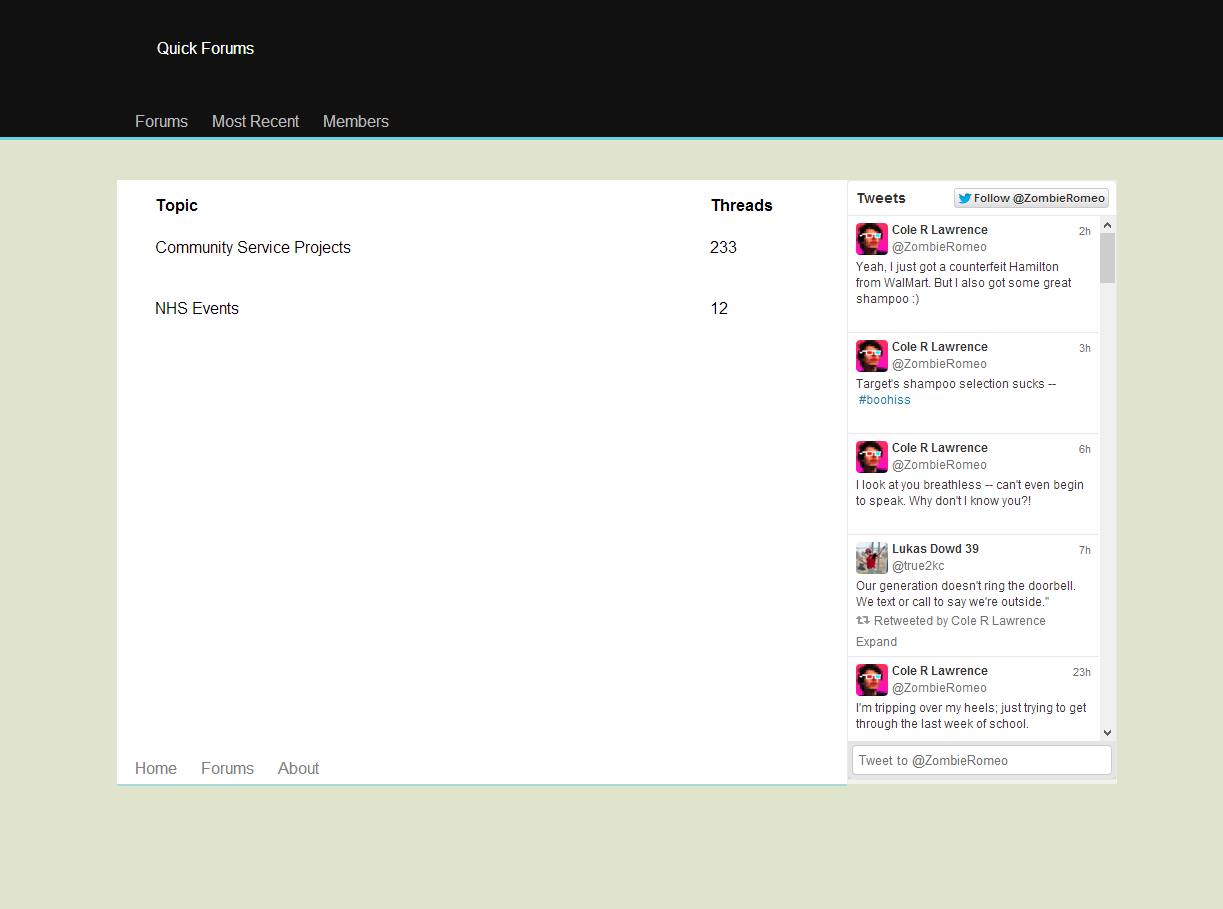
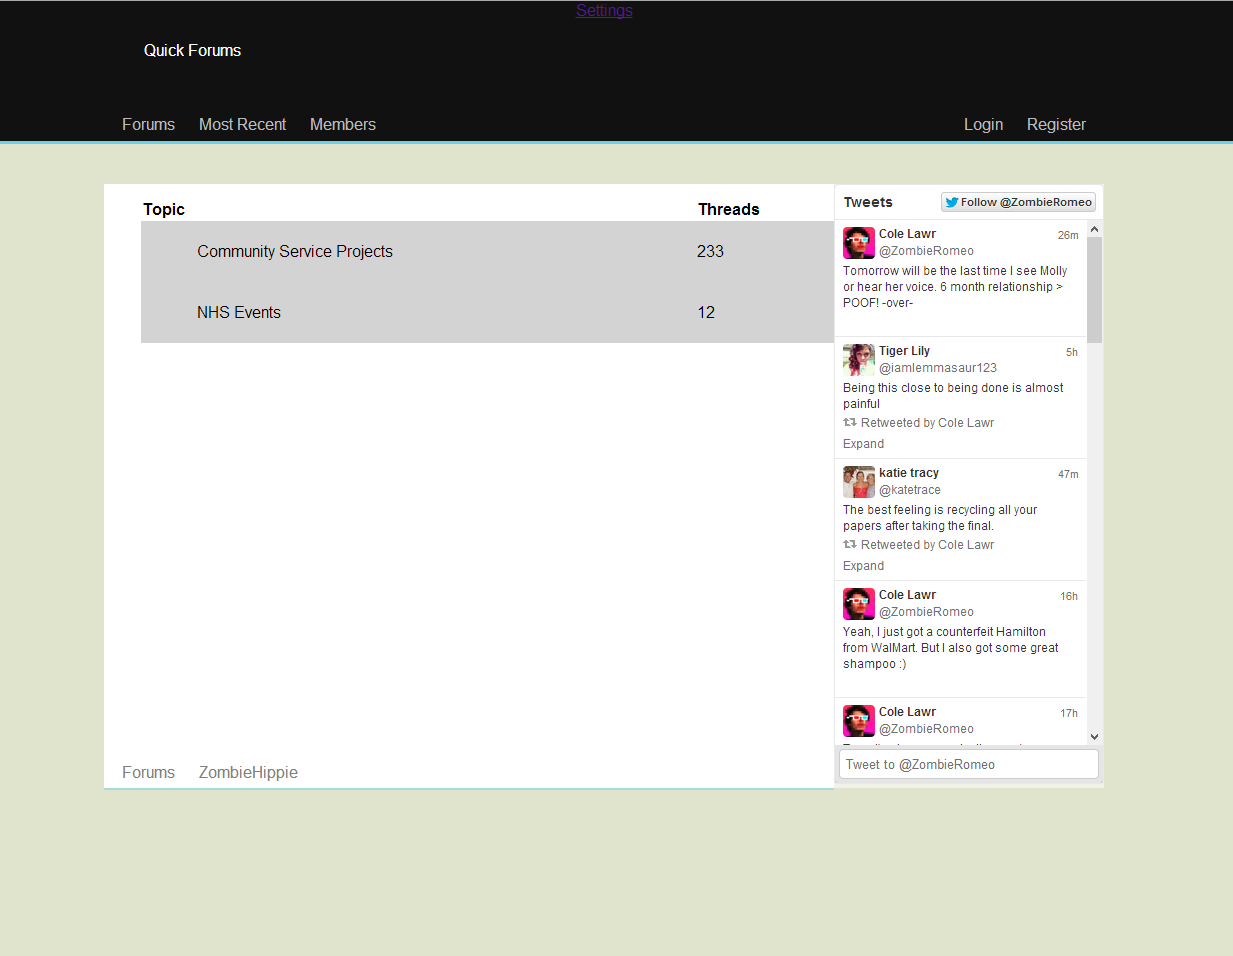
Added more slight design changes. Styling is taking long than expected.

diff --git a/css/hd.css b/css/hd.css
@@ -1,7 +1,15 @@
 html {
     /*background-image: url("/img/bg.png");  */
     background-color: #E0E4CC;
-}.hd ul {
+}.univ{
+position:absolute;
+top:0;
+left:0;
+width:100%;
+height:35px;
+text-align: center;
+}
+.hd ul {
 	list-style: none;
 }.hd li {
 	display: inline-block;
@@ -12,13 +20,23 @@ html {
 }.hd>.bar {
 	width: 1000px;
 	margin: 0 auto;
+}.hd.headerhd>.bar {
+	width: 1000px;
+	margin: 0 auto;
+	height:140px;
 }.hd>.bar>.logo {
+	height: 100px;
+}.hd>.bar>.logo>div {
 	padding: 40px;
 	color: #FFF;
 }.hd>.bar>ul{
 	margin:0;
 	height:35px;
 	padding:4px 8px 0;
+}.hd>.bar>ul.ull{
+	float:left;
+}.hd>.bar>ul.ulr{
+	float:right;
 }.hd>.bar>ul>li>a{
 	display:inline-block;
 	color: #BBB;

diff --git a/css/in.css b/css/in.css
@@ -12,13 +12,17 @@
 }.left>table {
     margin-left: 5%;
     width:95%;
+}.left>table>tbody>tr {
+    background-color: lightgray;
+}.left>table>tbody>tr.th {
+    background-color: white;
 }.left>table>tbody>tr>td{
     color: black;
 }.left>table>tbody>tr>td a {
     text-decoration: none;
     display: inline-block;
-    padding:20px 0;
-    width: 100%;
+    padding:20px 10%;
+    width: 80%;
     color: black;
 }.left>table>tbody>tr>td a:hover {
     text-decoration: underline;

diff --git a/topic.php b/topic.php
@@ -8,6 +8,7 @@ function get_title(){
 <!-- start index-->
 <div class="page">
 	<div class="left">
+		<h2>Topic: </h2>
 		<table>
 			<tbody>
 				<tr class="th">
@@ -15,11 +16,11 @@ function get_title(){
     				<th width="20%" align="left">Threads</th>
   				</tr>
 				<tr>
-				    <td><a href="/topic.php?id=2"><span>Community Service Projects</span></a></td>
+				    <td><a href="?fid=1"><span>Community Service Projects</span></a></td>
 				    <td><span>233</span></td>
 			  	</tr>
 				<tr>
-				    <td><a href="/topic.php?id=1"><span>NHS Events</span></a></td>
+				    <td><a href="?fid=1"><span>NHS Events</span></a></td>
 				    <td><span>12</span></td>
 			  	</tr>
   			</tbody>
@@ -27,7 +28,7 @@ function get_title(){
 	</div>
 	<div class="right">
 		<a class="twitter-timeline" data-dnt="true" href="https://twitter.com/ZombieRomeo" data-widget-id="337061254575300610">Tweets by @ZombieRomeo</a>
-		<script>!function(d,s,id){var js,fjs=d.getElementsByTagName(s)[0],p=/^http:/.test(d.location)?'http':'https';if(!d.getElementById(id)){js=d.createElement(s);js.id=id;js.src=p+"://platform.twitter.com/widgets.js";fjs.parentNode.insertBefore(js,fjs);}}(document,"script","twitter-wjs");</script>
+<script>!function(d,s,id){var js,fjs=d.getElementsByTagName(s)[0],p=/^http:/.test(d.location)?'http':'https';if(!d.getElementById(id)){js=d.createElement(s);js.id=id;js.src=p+"://platform.twitter.com/widgets.js";fjs.parentNode.insertBefore(js,fjs);}}(document,"script","twitter-wjs");</script>
 	</div>
 	<?php include 'php/page_footer.php'; ?>
 </div>

diff --git a/php/header.php b/php/header.php
@@ -11,17 +11,19 @@
     <script src="lib/zepto.min.js"></script>
 </head>
 <body>
-<div class="hd">
-    
+<div class="univ">
+    <a href="/settings.php">Settings</a>
+</div>
+<div class="headerhd hd">
     <div class="nav-bar bar">
         <div class="logo">
-            <span><?php echo get_title();?></span>
+            <div><?php echo get_title();?></div>
         </div>
-        <ul>
+        <ul class="ull">
             <li>
-            	<a href="#forum">
-            		<span>Forums</span>
-            	</a>
+                <a href="/index.php">
+                    <span>Forums</span>
+                </a>
             </li>
             <li>
                 <a href="#recent">
@@ -29,9 +31,21 @@
                 </a>
             </li>
             <li>
-            	<a href="#members">
-            		<span>Members</span>
-            	</a>
+                <a href="#members">
+                    <span>Members</span>
+                </a>
+            </li>
+        </ul>
+        <ul class="ulr">
+            <li>
+                <a href="/index.php">
+                    <span>Login</span>
+                </a>
+            </li>
+            <li>
+                <a href="#recent">
+                    <span>Register</span>
+                </a>
             </li>
         </ul>
     </div>

diff --git a/post.php b/post.php
@@ -1,0 +1,34 @@
+<?php
+function get_title(){
+    return "Quick Forums";
+}
+?>
+
+<?php include 'php/header.php'; ?>
+<!-- start index-->
+<div class="page">
+	<div class="left">
+		<h2>Post: </h2>
+		<table>
+			<tbody>
+				<tr class="th">
+    				<th width="80%" align="left">Topic</th>
+    				<th width="20%" align="left">Threads</th>
+  				</tr>
+				<tr>
+				    <td><a href="?fid=1"><span>Community Service Projects</span></a></td>
+				    <td><span>233</span></td>
+			  	</tr>
+				<tr>
+				    <td><a href="?fid=1"><span>NHS Events</span></a></td>
+				    <td><span>12</span></td>
+			  	</tr>
+  			</tbody>
+		</table>
+	</div>
+	<div class="right">
+	</div>
+	<?php include 'php/page_footer.php'; ?>
+</div>
+<!-- end index  -->
+<?php include 'php/footer.php'; ?>

diff --git a/php/page_footer.php b/php/page_footer.php
@@ -2,18 +2,13 @@
     <div class="bar">
         <ul>
             <li>
-            	<a href="#home">
-            		<span>Home</span>
-            	</a>
-            </li>
-            <li>
-            	<a href="#forum">
+            	<a href="/index.php">
             		<span>Forums</span>
             	</a>
             </li>
             <li>
-            	<a href="#members">
-            		<span>About</span>
+            	<a href="http://wp.zombiehippie.com" target="_blank">
+            		<span>ZombieHippie</span>
             	</a>
             </li>
         </ul>

diff --git a/settings.php b/settings.php
@@ -1,0 +1,16 @@
+<?php
+function get_title(){
+    return "Forum Settings";
+}
+?>
+
+<?php include 'php/header.php'; ?>
+<!-- start index-->
+<div class="page">
+	<form name="input" action="settings.php" method="POST">
+	Username: <input type="text" name="user">
+	<input type="submit" value="Submit">
+	</form>
+</div>
+<!-- end index  -->
+<?php include 'php/footer.php'; ?>
